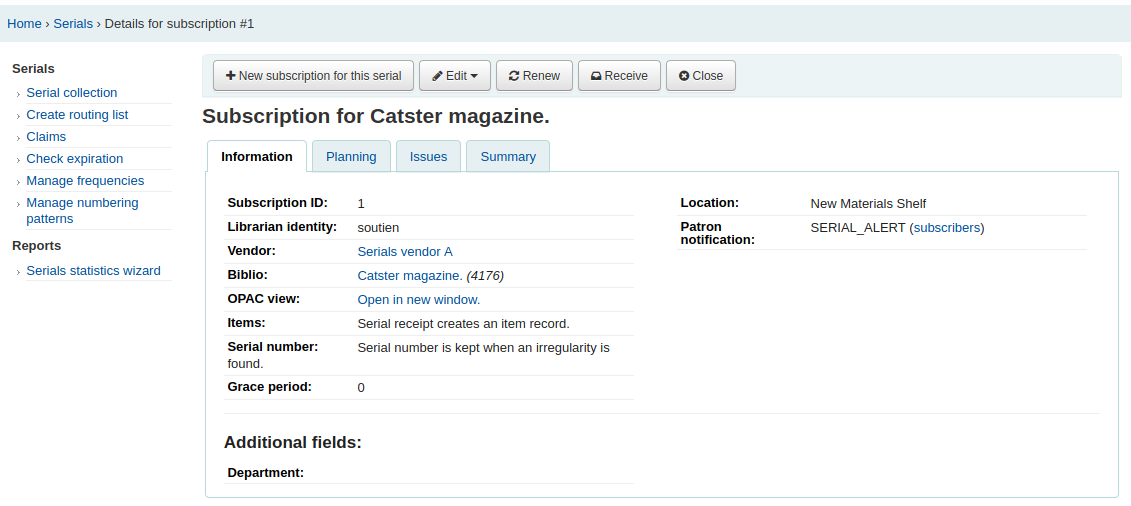
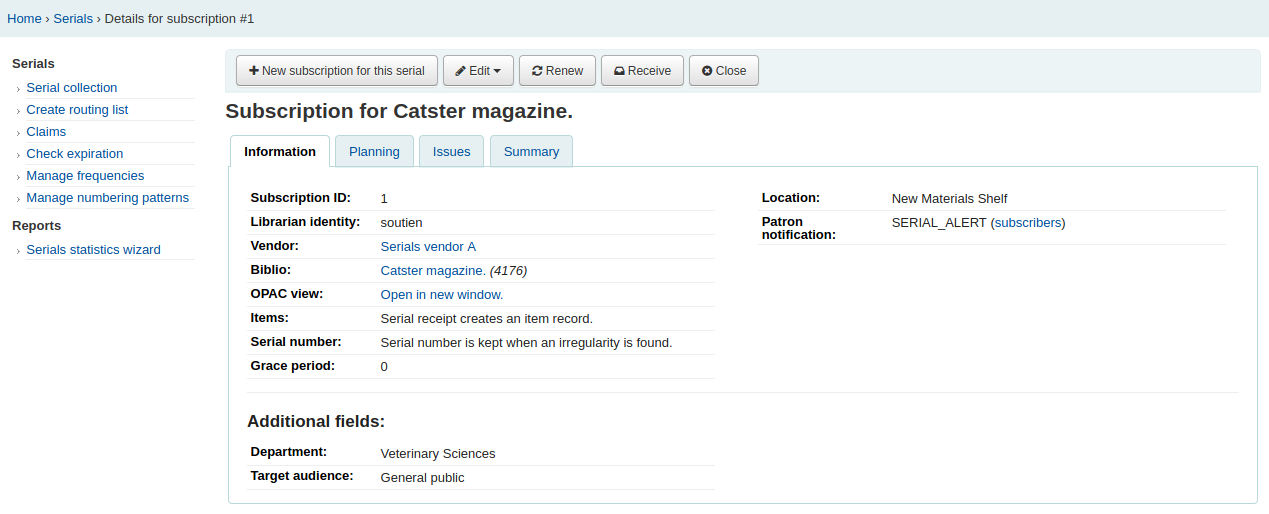
Review of Subscription additional fields

diff --git a/source/administration.rst b/source/administration.rst
@@ -4281,7 +4281,7 @@ are not a robot to finish the Mana KB setup.
 .. _additional-fields-label:
 
 Additional fields
-~~~~~~~~~~~~~~~~~~~~~~~~~~~~~~~~~~~~~~
+~~~~~~~~~~~~~~~~~~~~~~~~~~~~~~~~~~~~~~~~~~~~~~~~~~~~~~~~~~~~~~~~~~~~~~~~~~~~~~~
 
 This section is used to add custom fields to serial subscriptions or
 order baskets.
@@ -4290,43 +4290,45 @@ To add a new field, first choose which table you want to add it to.
 
 - Order baskets (aqbasket): a field added to aqbasket will appear upon
   the :ref:`creation of a new order basket <create-a-basket-label>`
-  or the modification of an existing order basket in the acquisitions module
+  or the modification of an existing order basket in the 
+  :ref:`acquisitions module<acquisitions-label>`.
 
-  |image1424|
+  |addfieldsorderbasket|
 
 - Subscriptions (subscription): a field added to subscription will appear
   when :ref:`creating a new subscription <add-a-subscription-label>` or
-  editing an existing subscription in the serials module
+  when :ref:`editing an existing subscription <edit-subscription-label>` in the 
+  serials module.
 
-  |image1425|
+  |addsub2|
 
 Click on "Create field"
 
 Fill out the form
 
-|image1272|
+|addfield|
 
-- Name: this is the name of the field as you want it to appear
+- Name: this is the name of the field as you want it to appear.
 
 - Authorized value category: if you want to add a drop-down menu to the field
-  choose an authorized value category here (you can also :ref:`create a new
-  authorized value category <add-new-authorized-value-category-label>` if you
-  need to)
+  choose an :ref:`authorized value category <existing-values-label>` here (you 
+  can also :ref:`create a new authorized value category <add-new-authorized-value-category-label>` 
+  if you need to).
 
 - MARC field: for additional subscription fields, it is possible to link
   the field to a MARC field. The additional field will be automatically
   populated with the corresponding record's value for this MARC field.
 
-     **Note**
+.. Note::
 
-      You can only choose one of the two options (authorized value OR MARC field)
+    You can only choose one of the two options (authorized value OR MARC field)
 
-  **Important**
+.. Warning::
 
-      If you choose the MARC field, make sure you enter it in this
-      format: field$subfield
+    If you choose the MARC field, make sure you enter it in this
+    format: field$subfield
 
-      For example: 590$a
+    For example: 590$a
 
 - Searchable: check this box if you want to be able to search baskets or
   subscriptions based on this field
@@ -4340,10 +4342,10 @@ Fill out the form
 .. _additional-fields-examples-label:
 
 Examples of additional fields
-^^^^^^^^^^^^^^^^^^^^^^^^^^^^^^^^^
+^^^^^^^^^^^^^^^^^^^^^^^^^^^^^^^^^^^^^^^^^^^^^^^^^^^^^^^^^^^^^^^^^^^^^^^^^^^^^^^
 
-**Example 1:** Additional subscription field using :ref:`authorized
-values <authorized-values-label>`
+**Example 1:** Additional subscription field using 
+:ref:`authorized values <authorized-values-label>`
 
 You might want to track which department you're ordering this serial for
 
@@ -4353,23 +4355,23 @@ You might want to track which department you're ordering this serial for
 
 -  Check the 'Searchable' box
 
-|image1273|
+|adddept|
 
 When you are :ref:`adding a subscription <add-a-subscription-label>`,
 the field will be in the 'Additional fields' section with its
 authorized values drop-down menu.
 
-|addingfieldvalues|
+|addsub2|
 
 When you view the subscription, the field will appear under 'Additional
 fields'.
 
-|image1275|
+|subscriptiondetailsinfo|
 
 Because we made the field searchable, it will also be in the serials
 subscription search.
 
-|image1276|
+|advancedserialsearch|
 
 **Example 2:** Additional field using MARC field
 
@@ -4381,17 +4383,17 @@ add the 521$a field, which is, in MARC21, the target audience note.
 
 - In the 'MARC field' field, enter '521$a'
 
-|image1379|
+|addmarcfield|
 
-      **Note**
+.. Note::
 
-      You will not be able to edit this field from the subscription
-      form. If you need to add or change the value in this field,
-      you must go through the :ref:`cataloging module <cataloging-label>`.
+   You will not be able to edit this field from the subscription
+   form. If you need to add or change the value in this field,
+   you must go through the :ref:`cataloging module <cataloging-label>`.
 
 When you view the subscription, the field and the information from the
 bibliographic record will appear under 'Additional fields'.
 
-|image1380|
+|subscriptiondetailsinfo|
 
 .. TO DO: add an example for order basket additional field

diff --git a/source/images.rst b/source/images.rst
@@ -15,7 +15,16 @@
 
 	.. ADDITIONAL PARAMETERS
 
+.. |adddept| image:: images/admin/additional/adddept.png
+				:alt: Add field form, filled with Department as the Name, DEPARTMENT as the authorized value category and Searchable is checked
+
+.. |addfield| image:: images/admin/additional/addfield.png
+				:alt: Add field form
+
 .. |addfieldsorderbasket| image:: images/admin/additional/addfieldsorderbasket.png
+
+.. |addmarcfield| image:: images/admin/additional/addmarcfield.png
+				:alt: Add field form, filled with Target audience as the Name, and 521$a as the MARC field
 
 
 .. SYSTEM PREFERENCES
@@ -61,9 +70,6 @@
 .. SEARCHING
 
 .. SERIALS
-
-.. |addingfieldvalues| image:: images/serials/addingfieldvalues.png
-				:alt: Additional fields section with additional field "Department"
 
 .. |addsub| image:: images/serials/addsub.png
 				:alt: Add a new subscription form (1 of 2)
@@ -1440,10 +1446,6 @@
 .. |image1268| image:: images/cataloging/editindividual.png
 .. |image1269| image:: images/cataloging/edititemssearch.png
 .. |image1270| image:: images/cataloging/itemstatuses.png
-.. |image1272| image:: images/serials/addfield.png
-.. |image1273| image:: images/serials/adddept.png
-.. |image1275| image:: images/serials/showfields.png
-.. |image1276| image:: images/serials/searchfield.png
 .. |image1280| image:: images/acquisitions/suggestfund.png
 .. |image1281| image:: images/acquisitions/importallstaged.png
 .. |image1282| image:: images/acquisitions/selecttoimport.png
@@ -1538,7 +1540,6 @@
 .. |image1373| image:: images/opac/MyILLrequests.png
 .. |image1374| image:: images/opac/ILLformpicker.png
 .. |image1375| image:: images/opac/ILLform.png
-.. |image1379| image:: images/serials/addmarcfield.png
 .. |image1380| image:: images/serials/showfieldsmarc.png
 .. |image1381| image:: images/tools/stockrotation/sr_summary.png
 .. |image1382| image:: images/tools/stockrotation/sr_edit_rota.png
@@ -1583,7 +1584,6 @@
 .. |image1421| image:: images/acquisitions/showactivebaskets.png
 .. |image1422| image:: images/acquisitions/showallbaskets.png
 .. |image1423| image:: images/admin/globalprefs/lastpatron.png
-.. |image1425| image:: images/admin/additional/addfieldsubscription.png
 .. |image1426| image:: images/admin/additional/manaconfiguration.png
 .. |image1427| image:: images/admin/additional/manatoken.png
 .. |image1428| image:: images/reports/sqlfrommana.png

diff --git a/source/serials.rst b/source/serials.rst
@@ -575,8 +575,6 @@ pattern information.
 -  If you have added :ref:`custom fields <additional-fields-label>`, they
    will be editable above the buttons at the bottom of the screen
 
-   |addingfieldvalues|
-
 Click 'Save subscription' to save the information you have entered.
 
 .. Note::
